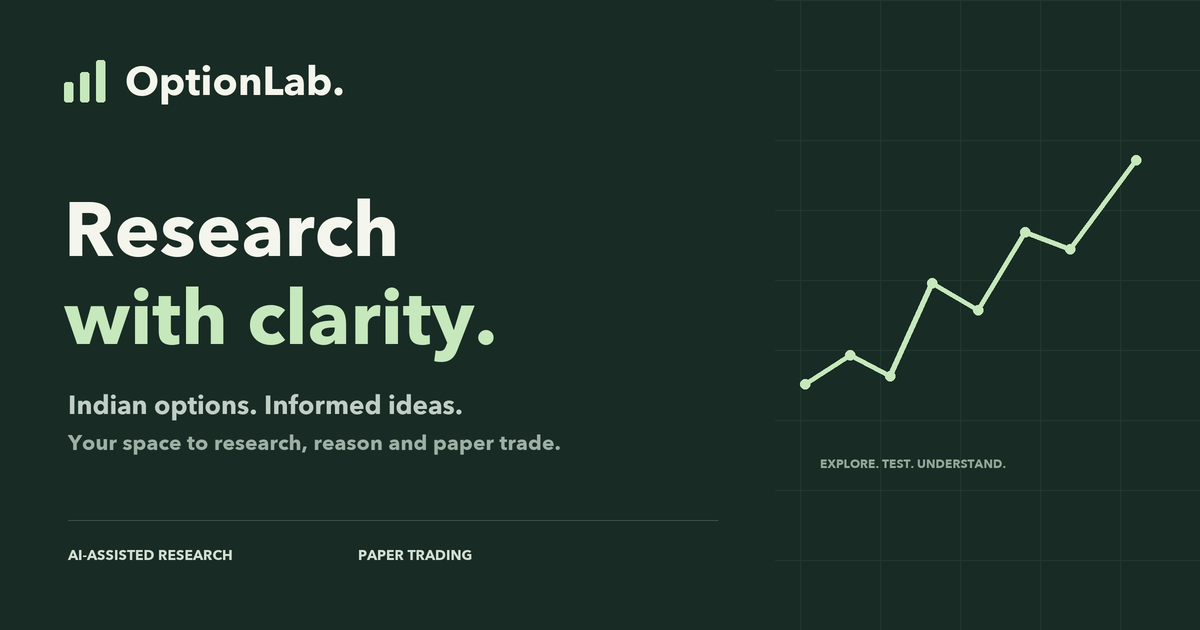
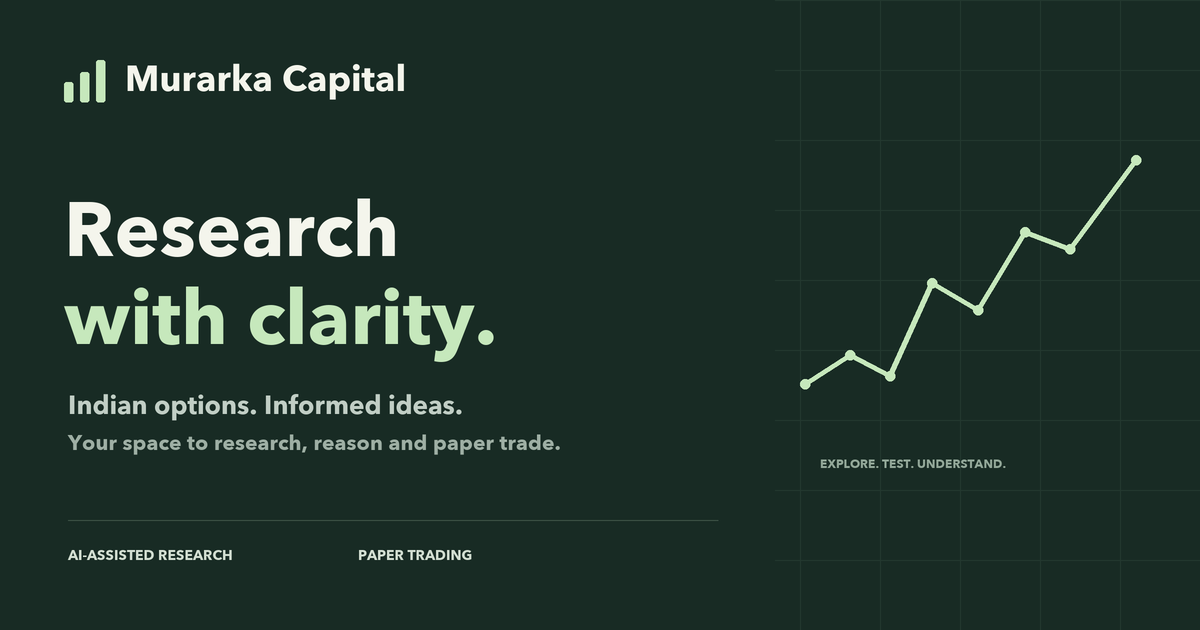
Rebrand workspace and sharing card to Murarka Capital

Changed region(s): [[0.0925, 0.0905, 0.3392, 0.181]]

diff --git a/src/optionlab/web/index.html b/src/optionlab/web/index.html
@@ -6,13 +6,13 @@
     <meta name="theme-color" content="#182722" />
     <meta
       name="description"
-      content="OptionLab — a considered workspace for Indian options research and paper trading."
+      content="Murarka Capital — a considered workspace for Indian options research and paper trading."
     />
-    <title>OptionLab — Research workspace</title>
+    <title>Murarka Capital — Research workspace</title>
     <link rel="canonical" href="__PUBLIC_ORIGIN__/" />
     <meta property="og:type" content="website" />
-    <meta property="og:site_name" content="OptionLab" />
-    <meta property="og:title" content="OptionLab — Research with clarity." />
+    <meta property="og:site_name" content="Murarka Capital" />
+    <meta property="og:title" content="Murarka Capital — Research with clarity." />
     <meta
       property="og:description"
       content="Indian options research, AI-assisted insights and paper trading. A considered workspace for your next idea."
@@ -20,36 +20,36 @@
     <meta property="og:url" content="__PUBLIC_ORIGIN__/" />
     <meta
       property="og:image"
-      content="__PUBLIC_ORIGIN__/static/share-card.png"
+      content="__PUBLIC_ORIGIN__/static/share-card.png?v=3"
     />
     <meta property="og:image:type" content="image/png" />
     <meta property="og:image:width" content="1200" />
     <meta property="og:image:height" content="630" />
     <meta
       property="og:image:alt"
-      content="OptionLab. Research with clarity. Indian options research and paper trading."
+      content="Murarka Capital. Research with clarity. Indian options research and paper trading."
     />
     <meta name="twitter:card" content="summary_large_image" />
-    <meta name="twitter:title" content="OptionLab — Research with clarity." />
+    <meta name="twitter:title" content="Murarka Capital — Research with clarity." />
     <meta
       name="twitter:description"
       content="Indian options research, AI-assisted insights and paper trading."
     />
     <meta
       name="twitter:image"
-      content="__PUBLIC_ORIGIN__/static/share-card.png"
+      content="__PUBLIC_ORIGIN__/static/share-card.png?v=3"
     />
     <link rel="icon" href="/static/favicon.svg" type="image/svg+xml" />
-    <link rel="stylesheet" href="/static/styles.css?v=2" />
-    <script type="module" src="/static/app.js?v=2"></script>
+    <link rel="stylesheet" href="/static/styles.css?v=3" />
+    <script type="module" src="/static/app.js?v=3"></script>
   </head>
   <body>
     <a class="skip-link" href="#main">Skip to workspace</a>
     <div class="mobile-scrim" id="mobile-scrim" hidden></div>
     <aside class="sidebar" id="sidebar" aria-label="Workspace navigation">
-      <a href="#overview" class="brand" aria-label="OptionLab home"
+      <a href="#overview" class="brand" aria-label="Murarka Capital home"
         ><span class="brand-mark" aria-hidden="true"><i></i><i></i><i></i></span
-        ><span>OptionLab<span class="brand-period">.</span></span></a
+        ><span class="brand-name">Murarka<span class="brand-subtitle">Capital<span class="brand-period">.</span></span></span></a
       >
       <div class="workspace-switch">
         <span class="workspace-avatar">O</span>
@@ -733,7 +733,7 @@
             ><span id="connection">Connecting to workspace…</span></span
           ><span id="last-sync">—</span
           ><span
-            >OptionLab <b>v0.2</b><span class="footer-separator">/</span>All
+            >Murarka Capital <b>v0.2</b><span class="footer-separator">/</span>All
             times in IST</span
           >
         </footer>
@@ -753,7 +753,7 @@
       <form id="auth-form">
         <span class="modal-emblem" data-icon="lock"></span
         ><span class="eyebrow">YOUR PRIVATE WORKSPACE</span>
-        <h2 id="auth-title">Welcome to OptionLab.</h2>
+        <h2 id="auth-title">Welcome to Murarka Capital.</h2>
         <p>
           Enter your workspace access key to continue. Your browser session
           stays signed in for the configured session duration.
@@ -904,7 +904,7 @@
     </dialog>
     <noscript
       ><div class="no-script">
-        Please enable JavaScript to use the OptionLab workspace.
+        Please enable JavaScript to use the Murarka Capital workspace.
       </div></noscript
     >
   </body>

diff --git a/src/optionlab/web/app.js b/src/optionlab/web/app.js
@@ -1070,7 +1070,7 @@ function navigate(focus = false) {
   html("page-title", esc(title) + "<span>.</span>");
   text("page-eyebrow", eyebrow);
   text("page-description", description);
-  document.title = label + " — OptionLab";
+  document.title = label + " — Murarka Capital";
   const primary = $("page-primary");
   const primaryAction =
     route === "market"
@@ -1282,7 +1282,7 @@ const actions = {
   },
   "export-chain": () =>
     download(
-      "optionlab-chain.csv",
+      "murarka-capital-chain.csv",
       csv([
         [
           "Instrument",
@@ -1317,7 +1317,7 @@ const actions = {
     ),
   "export-orders": () =>
     download(
-      "optionlab-paper-orders.csv",
+      "murarka-capital-paper-orders.csv",
       csv([
         [
           "ID",
@@ -1344,7 +1344,7 @@ const actions = {
     ),
   "export-backtest": () =>
     download(
-      "optionlab-backtest-" + state.backtestId + ".json",
+      "murarka-capital-backtest-" + state.backtestId + ".json",
       JSON.stringify(
         state.backtests.find((r) => r.id === state.backtestId),
         null,

diff --git a/src/optionlab/web/styles.css b/src/optionlab/web/styles.css
@@ -3393,3 +3393,6 @@ tr.atm td {
     font-size: 16px;
   }
 }
+
+.brand-name { line-height: 1.05; }
+.brand-subtitle { display: block; font-size: 15px; letter-spacing: 2px; margin-top: 5px; }

diff --git a/tests/test_hosting.py b/tests/test_hosting.py
@@ -165,7 +165,7 @@ def test_public_share_preview_uses_https_origin_without_login(settings, database
         parser = Metadata()
         parser.feed(response.text)
         assert parser.tags["og:url"] == ORIGIN + "/"
-        assert parser.tags["og:image"] == ORIGIN + "/static/share-card.png"
+        assert parser.tags["og:image"] == ORIGIN + "/static/share-card.png?v=3"
         assert parser.tags["twitter:card"] == "summary_large_image"
         assert "__PUBLIC_ORIGIN__" not in response.text
         assert TEST_KEY not in response.text

diff --git a/src/optionlab/api/app.py b/src/optionlab/api/app.py
@@ -108,7 +108,7 @@ def create_app(settings=None, database=None):
         db.engine.dispose()
 
     app = FastAPI(
-        title="OptionLab API",
+        title="Murarka Capital API",
         version="0.2.0",
         lifespan=lifespan,
         description="Paper-only modular options platform. All monetary values are decimal strings.",
